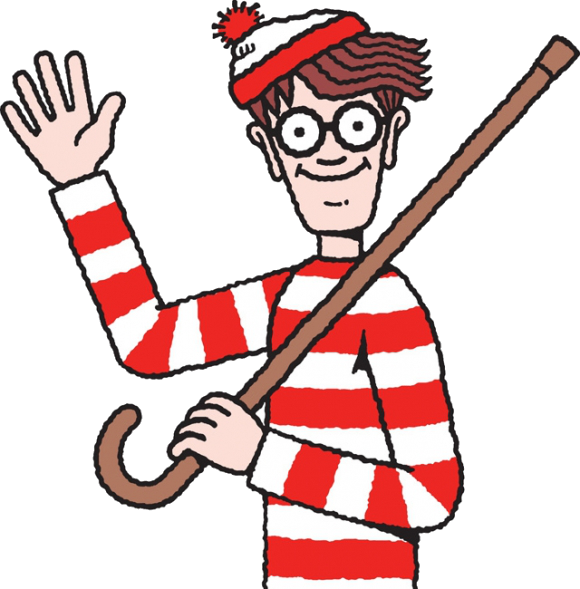
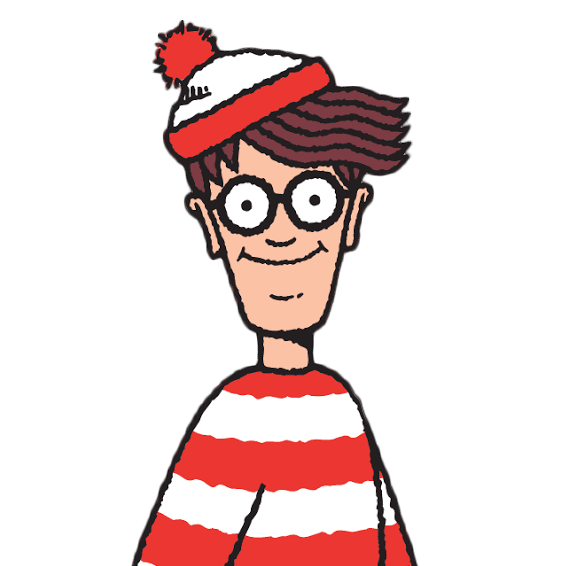
Completed the homepage of the app. Also added appropriate images

diff --git a/src/components/Header.jsx b/src/components/Header.jsx
@@ -2,31 +2,42 @@ import { Link } from "react-router-dom";
 import Waldo from "../assets/waldo.png";
 import Wizard from "../assets/wizard.png";
 import Odlaw from "../assets/odlaw.png";
+import WaldoLogo from "../assets/waldo-logo.png";
 import { getOpacity } from "../utils";
 
-const Header = ({ charactersLeft = null }) => {
+const Header = ({ charactersLeft = null, score = null }) => {
   return (
-    <header className="border-b-2 p-3 pr-10 pl-10 text-red-800">
-      <nav className="flex items-center justify-between gap-4">
+    <header className="border-b-2 py-3 px-10 text-red-800 sticky top-0 z-10 bg-gray-50 ">
+      <nav className="flex items-center justify-between gap-8">
         <ul className="flex gap-2">
-          <li className="flex items-center text-4xl font-bold">
-            <Link to="/">Where's Waldo</Link>
+          <li className="text-4xl font-bold">
+            <Link to="/" className="flex items-center gap-3">
+              <img src={WaldoLogo} className="h-10" alt="" />
+              Where's Waldo
+            </Link>
           </li>
         </ul>
-        <ul className="flex gap-6">
-          <li
-            style={charactersLeft && { opacity: getOpacity(charactersLeft, 1) }}
-          >
-            <img src={Waldo} className="h-16 w-16" alt="" />
-          </li>
-          <li style={charactersLeft && { opacity: getOpacity(charactersLeft, 2) }}>
-            <img src={Wizard} className="h-16 w-16" alt="" />
-          </li>
-          <li style={charactersLeft && { opacity: getOpacity(charactersLeft, 3) }}>
-            <img src={Odlaw} className="h-16 w-16" alt="" />
-          </li>
-        </ul>
-        <ul className="flex gap-4 text-2xl font-medium">
+        {charactersLeft && (
+          <ul className="flex gap-6">
+            <li style={{ opacity: getOpacity(charactersLeft, 1) }}>
+              <img src={Waldo} className="h-10" alt="" />
+            </li>
+            <li style={{ opacity: getOpacity(charactersLeft, 2) }}>
+              <img src={Wizard} className="h-10" alt="" />
+            </li>
+            <li style={{ opacity: getOpacity(charactersLeft, 3) }}>
+              <img src={Odlaw} className="h-10" alt="" />
+            </li>
+          </ul>
+        )}
+
+        {score && (
+          <div className="w-40 text-xl font-bold text-red-800">
+            Timer: {score / 100}s
+          </div>
+        )}
+
+        <ul className="flex gap-8 text-2xl font-medium">
           <li>
             <Link to="/game">Play</Link>
           </li>

diff --git a/src/pages/Home.jsx b/src/pages/Home.jsx
@@ -1,14 +1,61 @@
 import Header from "../components/Header";
+import WaldoFull from "../assets/waldo-full.png";
+import { Link } from "react-router-dom";
 
 const Home = () => {
   return (
     <>
       <Header />
-      <main>
-        
+      <main className="flex justify-center gap-10 p-10">
+        <div className="flex flex-col items-center gap-4">
+          <img className="h-96" src={WaldoFull} alt="" />
+          <Link to="/game" className="font-bold flex cursor-pointer items-center justify-center rounded-md bg-red-700 p-12 py-3 text-xl text-white transition duration-200 hover:bg-red-600">
+            PLAY NOW ➜
+          </Link>
+        </div>
+        <div className="w-[60%]">
+          <section className="mb-8">
+            <h2 className="mb-4 text-3xl font-bold">
+              Welcome to Where's Waldo!
+            </h2>
+            <p className="text-xl">
+              Think you've got a sharp eye? Put your observation skills to the
+              test in this exciting <b>Where's Waldo?</b> challenge!
+            </p>
+          </section>
+          <section className="mb-8">
+            <h3 className="mb-4 text-2xl font-bold">🔍 How to Play:</h3>
+            <ol className="list-inside list-disc text-xl">
+              <li>
+                Look at the image carefully and{" "}
+                <b>find Waldo, Wizard and Odlaw</b>—they're hiding somewhere!
+              </li>
+              <li>Click on them when you spot them.</li>
+              <li>
+                Beat the clock and challenge yourself to{" "}
+                <b>find all of them as fast as possible!</b>
+              </li>
+            </ol>
+          </section>
+          <section className="mb-8">
+            <h3 className="mb-4 text-2xl font-bold">
+              ⏱ Compete for the Best Time!
+            </h3>
+            <p className="text-xl">
+              Can you set a record for the <b>fastest find</b>? Track your score
+              and see if you can improve with each round.
+            </p>
+          </section>
+
+          <section className="mb-8">
+            <p className="text-xl">
+              <b>Start Playing Now!</b> Can you find Waldo before time runs out?
+            </p>
+          </section>
+        </div>
       </main>
     </>
   );
-}
+};
 
 export default Home;

diff --git a/src/pages/Leaderboard.jsx b/src/pages/Leaderboard.jsx
@@ -3,6 +3,7 @@ import Header from "../components/Header";
 import Loading from "../components/Loading";
 const Leaderboard = () => {
   const [users, setUsers] = useState(null);
+  const tableCellStyle = "border-1 py-1 pr-15 pl-5";
   useEffect(() => {
     const fetchUsers = async () => {
       try {
@@ -32,24 +33,22 @@ const Leaderboard = () => {
       <Header />
       <main>
         <div className="flex flex-col items-center gap-6 p-8 text-red-900">
-          <h2 className="text-3xl font-bold ">Leaderboard</h2>
+          <h2 className="text-3xl font-bold">Leaderboard</h2>
           {users ? (
             <table className="border-1 text-xl">
               <thead>
-                <tr>
-                  <th className="border-1 p-1 pr-6 pl-6">Rank</th>
-                  <th className="border-1 p-1 pr-6 pl-6">Name</th>
-                  <th className="border-1 p-1 pr-6 pl-6">Score (Time)</th>
+                <tr className="bg-gray-50">
+                  <th className={tableCellStyle}>Rank</th>
+                  <th className={tableCellStyle}>Name</th>
+                  <th className={tableCellStyle}>Score (Time)</th>
                 </tr>
               </thead>
               <tbody>
                 {users.map((user, index) => (
                   <tr key={user.id}>
-                    <td className="border-1 p-1 pr-6 pl-6">{index + 1}</td>
-                    <td className="border-1 p-1 pr-6 pl-6">{user.username}</td>
-                    <td className="border-1 p-1 pr-6 pl-6">
-                      {user.score / 100}s
-                    </td>
+                    <td className={tableCellStyle}>{index + 1}</td>
+                    <td className={tableCellStyle}>{user.username}</td>
+                    <td className={tableCellStyle}>{user.score / 100}s</td>
                   </tr>
                 ))}
               </tbody>

diff --git a/src/components/UserForm.jsx b/src/components/UserForm.jsx
@@ -1,12 +1,15 @@
 import { useState } from "react";
 import { useNavigate } from "react-router-dom";
+import Loading from "./Loading";
 
 const UserForm = ({ score }) => {
   const [username, setUsername] = useState("");
+  const [isSubmitting, setIsSubmitting] = useState(false);
   const navigate = useNavigate();
 
   const handleUserSubmit = async (e) => {
     e.preventDefault();
+    setIsSubmitting(true);
 
     try {
       // const baseUrl = import.meta.env.VITE_API_BASE_URL;
@@ -21,11 +24,12 @@ const UserForm = ({ score }) => {
       if (!response.ok) {
         throw new Error(`HTTP error! Status: ${response.status}`);
       }
-      
+
       navigate("/leaderboard");
     } catch (err) {
       console.error("Error uploading data:", err);
     }
+    setIsSubmitting(false);
   };
 
   return (
@@ -49,9 +53,9 @@ const UserForm = ({ score }) => {
           />
           <button
             type="submit"
-            className="cursor-pointer rounded-md bg-red-800 py-2 text-white transition duration-200 hover:bg-red-700"
+            className="cursor-pointer rounded-md bg-red-800 py-2 text-white transition duration-200 hover:bg-red-700 flex justify-center items-center"
           >
-            Submit
+            {isSubmitting ? <Loading /> : "Submit"}
           </button>
         </form>
       </div>

diff --git a/src/pages/Game.jsx b/src/pages/Game.jsx
@@ -1,6 +1,6 @@
-import mainImage from "../assets/main-image.jpg";
 import { useEffect, useRef, useState } from "react";
 import { normalizeAxes } from "../utils";
+import mainImage from "../assets/main-image.jpg";
 import checkmark from "../assets/checkmark.svg";
 import UserForm from "../components/UserForm";
 import Header from "../components/Header";
@@ -127,7 +127,7 @@ const Game = () => {
 
   return (
     <>
-      <Header charactersLeft={charactersLeft} />
+      <Header charactersLeft={charactersLeft} score={score} />
       <main>
         <div className="imageContainer relative">
           <img
@@ -178,9 +178,7 @@ const Game = () => {
             ))}
           </ul>
 
-          <div className="fixed top-24 left-4 rounded-2xl bg-gray-100 p-2 text-2xl font-bold text-red-800">
-            Timer: {score / 100}s
-          </div>
+          
         </div>
         {charactersLeft.length == 0 && message == null && (
           <UserForm score={score} />

diff --git a/index.html b/index.html
@@ -7,7 +7,7 @@
     <title>Where's Waldo</title>
   </head>
   <body>
-    <div id="root" class="min-w-5xl bg-gray-100 font-sans"></div>
+    <div id="root" class="min-w-5xl font-sans relative flex flex-col"></div>
     <script type="module" src="/src/main.jsx"></script>
   </body>
 </html>

diff --git a/src/components/Loading.jsx b/src/components/Loading.jsx
@@ -1,5 +1,5 @@
 export default function Loading() {
   return (
-    <div className="h-10 w-10 animate-spin rounded-full border-4 border-gray-300 border-t-red-800"></div>
+    <div className="h-5 w-5 animate-spin rounded-full border-3 border-gray-300 border-t-red-800"></div>
   );
 }

diff --git a/src/index.css b/src/index.css
@@ -1,5 +1,2 @@
 @import "tailwindcss";
 
-html, body, #root{
-  height: 100%;
-}
